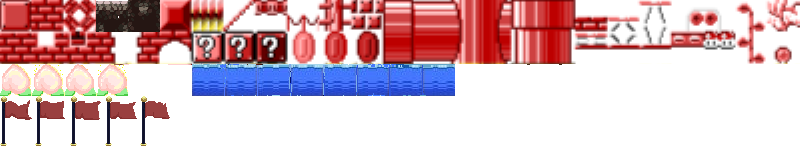
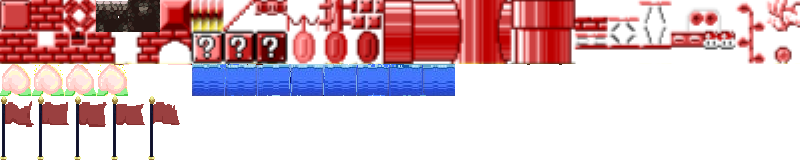
update flag blocks

Changed region(s): [[0.0, 0.5938, 0.25, 1.0]]

diff --git a/src/Block.cpp b/src/Block.cpp
@@ -280,13 +280,13 @@ Block* BlockFactory::createBlock(const std::string& type, sf::Texture& texture, 
   }
   else if (type == "flag") {
 	  FlagBlock* block = new FlagBlock(texture);
-	  block->setPosition(position.x, position.y-18);
+	  block->setPosition(position.x, position.y-32);
 	  auto ani = new BlockAnimation(block->getSprite(), 0.3f);
-      ani->addFrame(sf::IntRect(0, 32*3, 35, 50));
-	  ani->addFrame(sf::IntRect(35, 32 * 3, 35, 50));
-	  ani->addFrame(sf::IntRect(70, 32 * 3, 35, 50));
-	  ani->addFrame(sf::IntRect(105, 32 * 3, 35, 50));
-	  ani->addFrame(sf::IntRect(140, 32 * 3, 35, 50));
+      ani->addFrame(sf::IntRect(0, 32*3, 37, 64));
+	  ani->addFrame(sf::IntRect(37, 32 * 3, 37, 64));
+	  ani->addFrame(sf::IntRect(74, 32 * 3, 37, 64));
+	  ani->addFrame(sf::IntRect(111, 32 * 3, 37, 64));
+	  ani->addFrame(sf::IntRect(148, 32 * 3, 37, 64));
       block->setAnimated(true);
       block->setAnimation(ani);
 	  return block;
